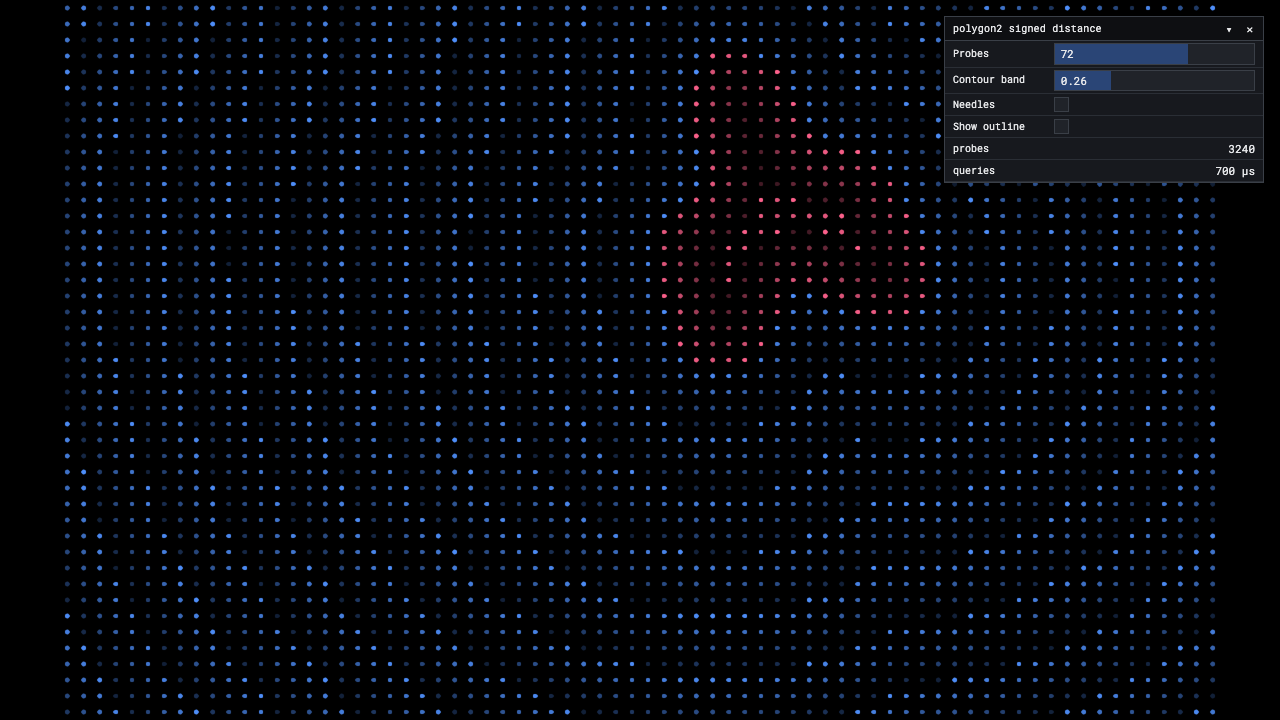
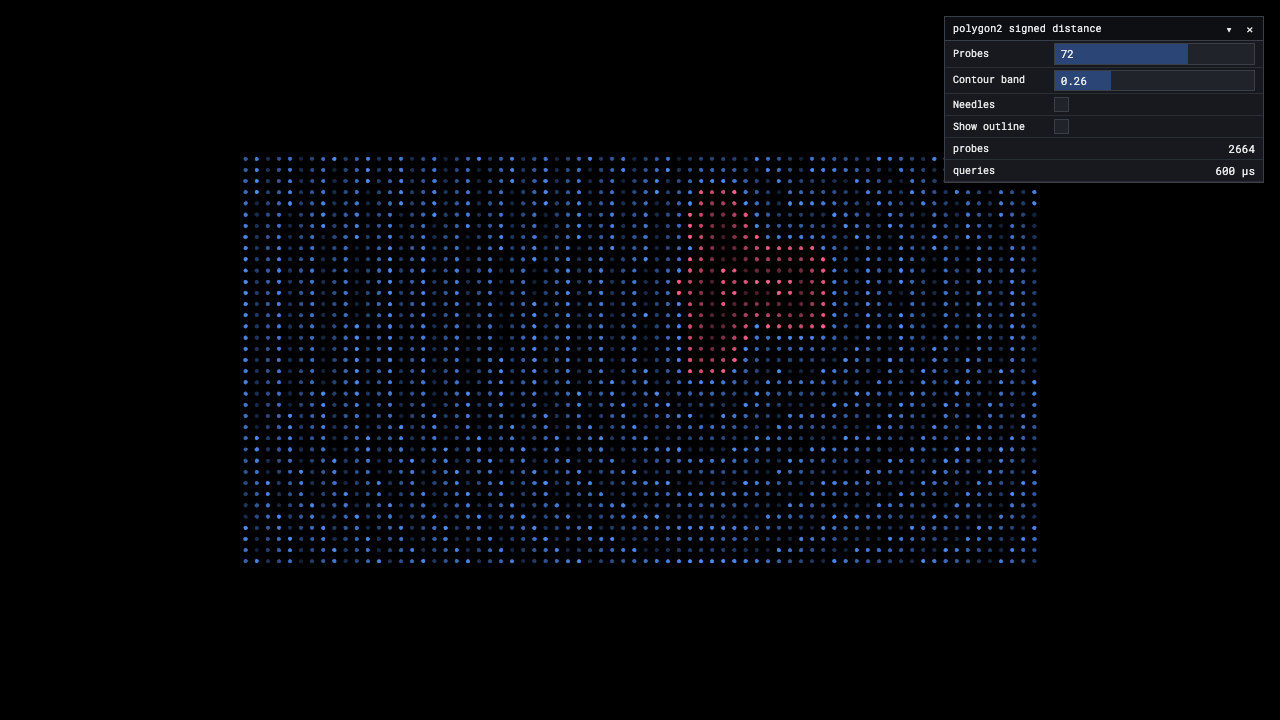
tweaks to polygon2 signed distance example

diff --git a/examples/src/example-polygon2-signed-distance.ts b/examples/src/example-polygon2-signed-distance.ts
@@ -27,11 +27,15 @@ import { createRenderer } from './common/renderer';
 
 const VERTS = 36; // outline points
 const BASE = 0.55;
-const VIEW = 1.55; // half-height of the world the probes cover
-const SPAN = 2.5; // half-width
+const VIEW = 1.5; // half-height of the world the probes cover
+const SPAN = 2.9; // half-width
+// the camera sees this much more than the lattice covers, so the field sits
+// inset with clear space around it rather than running under the gallery's
+// title and description
+const PAD = 1.74;
 const MAX_COLUMNS = 96;
-const NEEDLE = 0.07; // the longest a needle is drawn, whatever the distance
-const DOT = 0.011; // every probe is the same size, so only colour carries meaning
+const NEEDLE = 0.085; // the longest a needle is drawn, whatever the distance
+const DOT = 0.016; // every probe is the same size, so only colour carries meaning
 const INSIDE_HUE = 0.06; // pink end of the palette
 const OUTSIDE_HUE = 0.55; // blue end
 // the dots are spheres, so they occupy depth either side of z = 0. Needles and
@@ -102,9 +106,9 @@ camera.position[2] = 5;
 scene.add(camera);
 
 function fitCamera(): void {
-    camera.top = VIEW;
-    camera.bottom = -VIEW;
-    camera.left = -VIEW * (window.innerWidth / window.innerHeight);
+    camera.top = VIEW * PAD;
+    camera.bottom = -VIEW * PAD;
+    camera.left = -camera.top * (window.innerWidth / window.innerHeight);
     camera.right = -camera.left;
     camera.updateProjectionMatrix();
 }

diff --git a/examples/index.html b/examples/index.html
@@ -291,19 +291,19 @@
         .viewer-title h2 {
             margin: 0;
             font-family: var(--mono);
-            font-size: 17px;
+            font-size: 15px;
             font-weight: 500;
             letter-spacing: 0.02em;
             text-transform: lowercase;
         }
 
         .viewer-desc {
-            margin: 7px 0 0;
-            max-width: 360px;
+            margin: 6px 0 0;
+            max-width: 380px;
             font-family: var(--mono);
-            font-size: 12px;
+            font-size: 10.5px;
             font-weight: 400;
-            line-height: 1.55;
+            line-height: 1.5;
             letter-spacing: 0.01em;
             text-transform: lowercase;
             color: rgba(255, 255, 255, 0.68);
